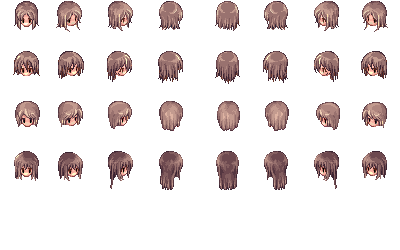
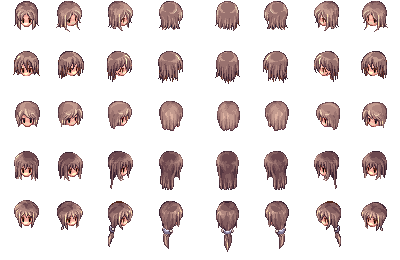
Ticket 10 : Add last women haircut

diff --git a/game/public/Constants.js b/game/public/Constants.js
@@ -438,7 +438,41 @@ var Constants = {
 							name: 'fifthBlackWomen',
 							overviewImage: '/styles/heads/women/fifth-hc-black-overview.png',
 							paddingY : -20,
-							paddingX : -1
+							paddingX : -1,
+							animations: [
+								{
+									name: 'down',
+									tiles: [32]
+								},
+								{
+									name: 'bottomRight',
+									tiles: [33]
+								},
+								{
+									name: 'right',
+									tiles: [34]
+								},
+								{
+									name: 'topRight',
+									tiles: [35]
+								},
+								{
+									name: 'top',
+									tiles: [36]
+								},
+								{
+									name: 'topLeft',
+									tiles: [37]
+								},
+								{
+									name: 'left',
+									tiles: [38]
+								},
+								{
+									name: 'bottomLeft',
+									tiles: [39]
+								}
+							]
 						}
 					]
 				}
